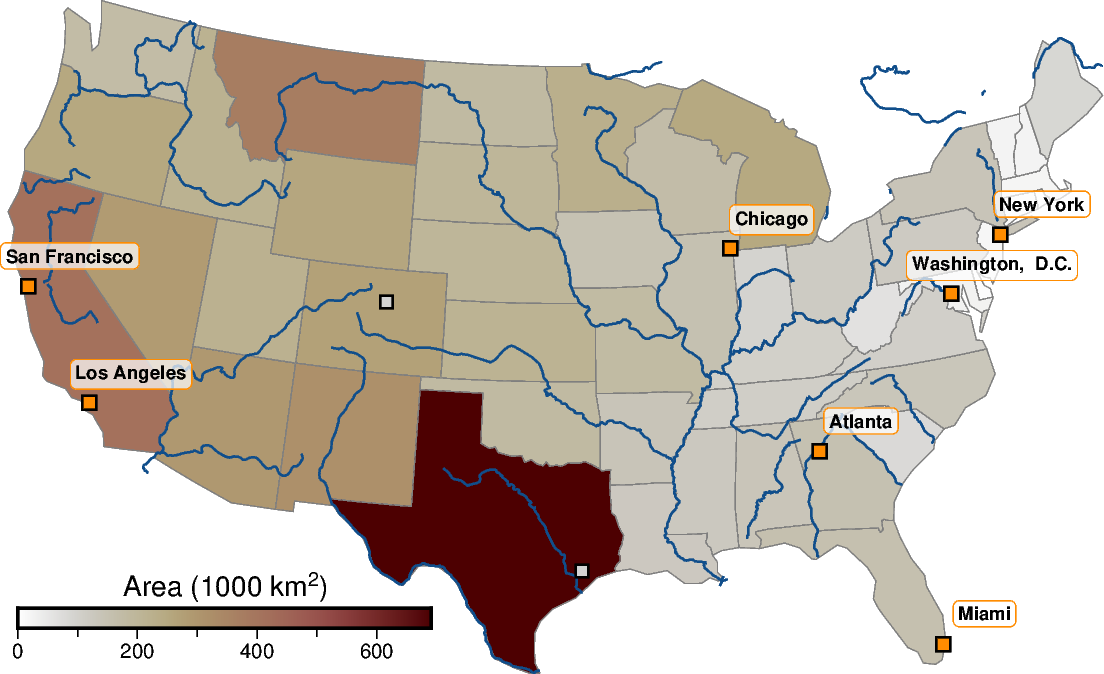
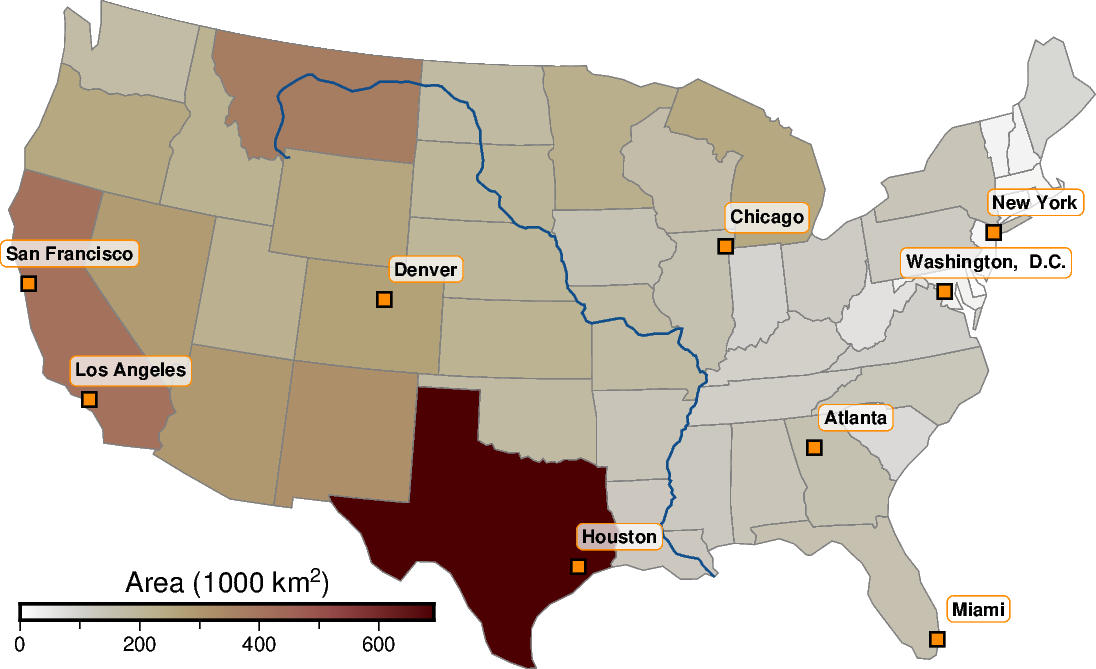
Do not subset cities | Use rivers from 110 m dataset | Remove geometry column

diff --git a/Fig6_PyGMT_geopandas.py b/Fig6_PyGMT_geopandas.py
@@ -5,41 +5,25 @@ provider = "https://naciscdn.org/naturalearth"
 states = gpd.read_file(f"{provider}/110m/cultural/ne_110m_admin_1_states_provinces.zip")
 states["area_sqkm"] = states.geometry.to_crs(epsg=6933).area / 10 ** 9
 states = states[states["name"] != "Alaska"]
-rivers = gpd.read_file(f"{provider}/50m/physical/ne_50m_rivers_lake_centerlines.zip")
+rivers = gpd.read_file(f"{provider}/110m/physical/ne_110m_rivers_lake_centerlines.zip")
 rivers = rivers.cx[-126:-66, 24.9:49.1]
 cities = gpd.read_file(f"{provider}/110m/cultural/ne_110m_populated_places_simple.zip")
-cities = cities.cx[-126:-66, 24.9:49.1]
-cities_large = cities[cities["worldcity"] == 1].copy()
-cities_large = cities_large.cx[-126:-66, 24.8:43]
-cities_small = cities[cities["worldcity"] != 1].copy()
-cities_small = cities_small.cx[-126:-66, 26:45]
+cities = cities.cx[-126:-66, 25.7:42]
 
 fig = pygmt.Figure()
-fig.basemap(
-    projection="L-96/35/33/41/12c", region=[-126, -66.5, 24.9, 49.1], frame="+n"
-)
-# fig.coast(shorelines="1/0.1p,gray80", land="gray95")
+fig.basemap(projection="L-96/35/33/41/12c", region=[-126, -66, 25, 49], frame="+n")
 
 pygmt.makecpt(cmap="bilbao", series=[0, states["area_sqkm"].max()])
-fig.plot(
-    data=states[["geometry", "area_sqkm"]],
-    cmap=True,
-    pen="0.2p,gray50",
-    fill="+z",
-    aspatial="Z=area_sqkm",
-)
-fig.colorbar(
-    frame="xaf+lArea (1000 km@+2@+)", position="jBL+h+o1.4c/0.6c+w3.5c/0.17c+ml"
-)
+fig.plot(data=states, cmap=True, pen="0.2p,gray50", fill="+z", aspatial="Z=area_sqkm")
+fig.colorbar(frame="xaf+lArea (1000 km@+2@+)", position="jBL+h+o1.4c/0.6c+w3.5c+ml")
 
-fig.plot(data=rivers["geometry"], pen="0.5p,dodgerblue4")
+fig.plot(data=rivers, pen="0.5p,dodgerblue4")
 
-fig.plot(data=cities_small, style="s0.15c", fill="lightgray", pen="0.5p")
-fig.plot(data=cities_large, style="s0.17c", fill="darkorange", pen="0.5p")
+fig.plot(data=cities, style="s0.17c", fill="darkorange", pen="0.5p")
 fig.text(
-    x=cities_large.geometry.x,
-    y=cities_large.geometry.y,
-    text=cities_large["name"],
+    x=cities.geometry.x,
+    y=cities.geometry.y,
+    text=cities["name"],
     offset="0.35c/0.2c",
     justify="BC",
     font="4.5p,Helvetica-Bold",
